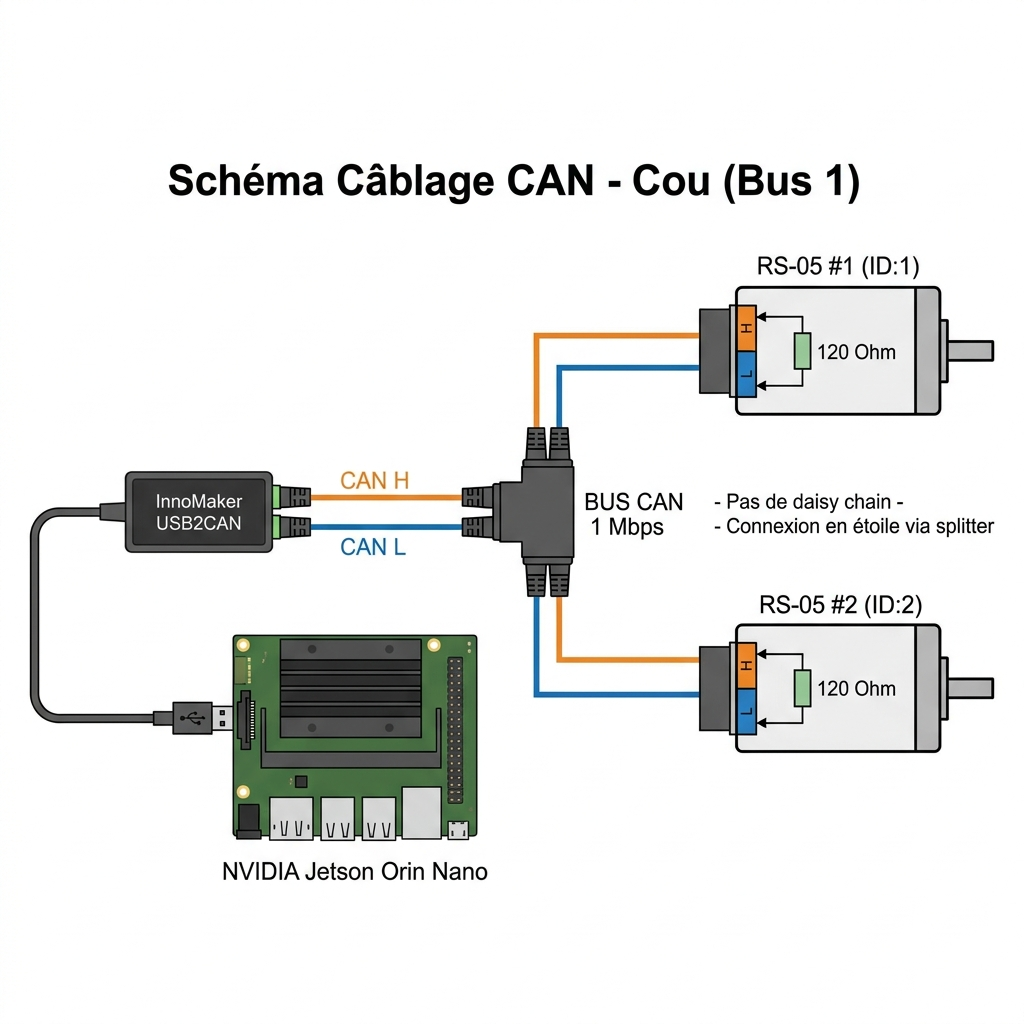
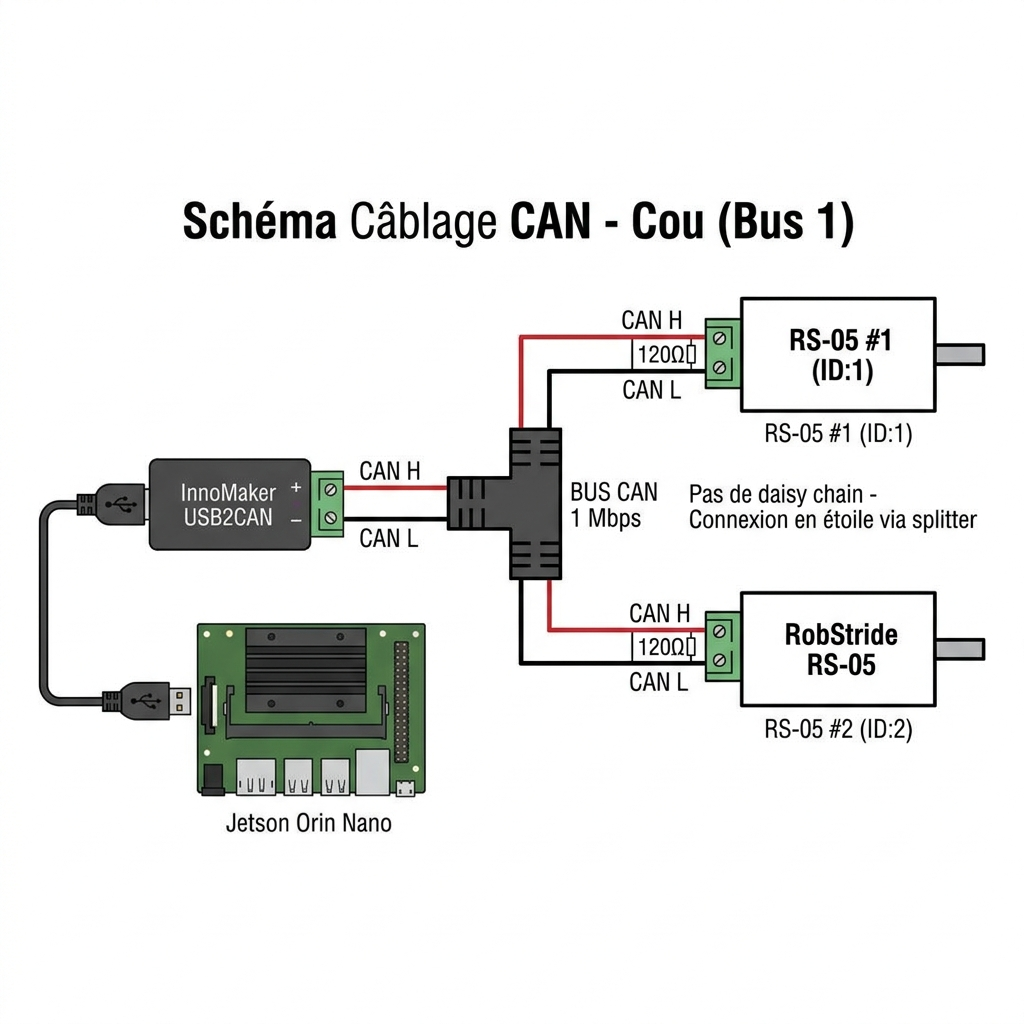
docs(jetson): update CAN wiring guide and diagram to reflect Red/Black wire colors for RS-05

Changed region(s): [[0.0312, 0.1562, 0.9688, 0.875]]

diff --git a/annexes/jetson/liaison_can/42_Configuration_CAN_InnoMaker_RS05.md b/annexes/jetson/liaison_can/42_Configuration_CAN_InnoMaker_RS05.md
@@ -12,7 +12,7 @@ Ce guide décrit la mise en place du **Bus CAN 1** dédié aux 2 moteurs RobStri
 ![Schéma Câblage CAN - Cou (Bus 1)](../../../assets/can_innomaker_rs05_wiring.png)
 
 ### Points clés du câblage
-- **CAN H** (orange) et **CAN L** (bleu) partent de l'InnoMaker vers un **splitter CAN** central.
+- **CAN H** (rouge) et **CAN L** (noir) partent de l'InnoMaker vers un **splitter CAN** central.
 - Le splitter distribue les 2 fils vers chaque RS-05 **en parallèle**.
 - Chaque RS-05 doit avoir sa **résistance de terminaison 120 Ω** active entre CAN H et CAN L (vérifiez le DIP switch ou jumper intégré à chaque moteur).
 - **L'InnoMaker côté Jetson** doit également avoir sa propre résistance de terminaison 120 Ω (intégrée à l'adaptateur, vérifiez le jumper sur la carte).
